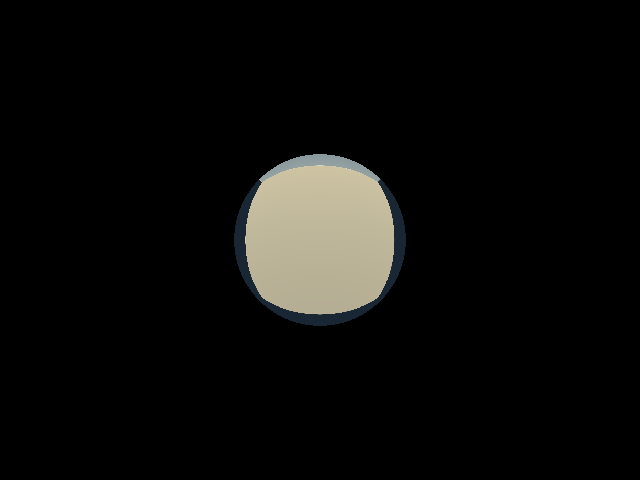
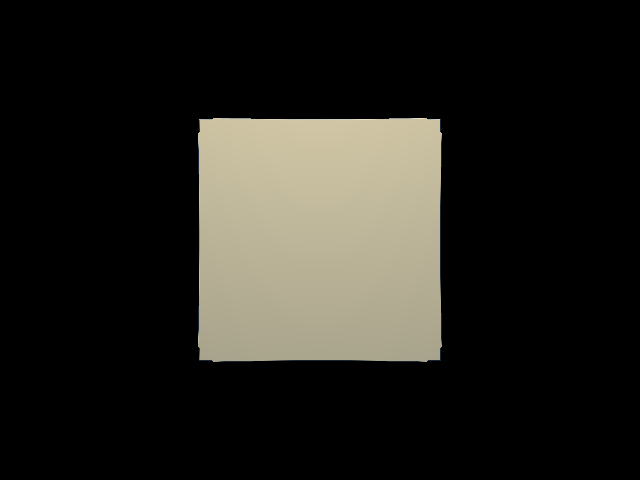
InfiniteCube changes

Changed region(s): [[0.3125, 0.2188, 0.6875, 0.7812]]

diff --git a/maths-accelerator/VCDtoImage/RGB_generatePNG.py b/maths-accelerator/VCDtoImage/RGB_generatePNG.py
@@ -6,7 +6,7 @@ vcd_file      = "C:/Projects/FPGA_Accelerator/maths-accelerator/rayMarcher/sim_v
 shade_signal  = "tb_fullModule.shade_out[23:0]"
 valid_signal  = "tb_fullModule.valid_out"
 width, height = 640, 480
-output_image  = "C:/Projects/FPGA_Accelerator/maths-accelerator/VCDtoImage/OutputImages/square_output.png"
+output_image  = "C:/Projects/FPGA_Accelerator/maths-accelerator/VCDtoImage/OutputImages/infi_square_output.png"
 
 print("Parsing VCD…")
 vcd = VCDVCD(vcd_file, signals=[shade_signal, valid_signal], store_tvs=True)
